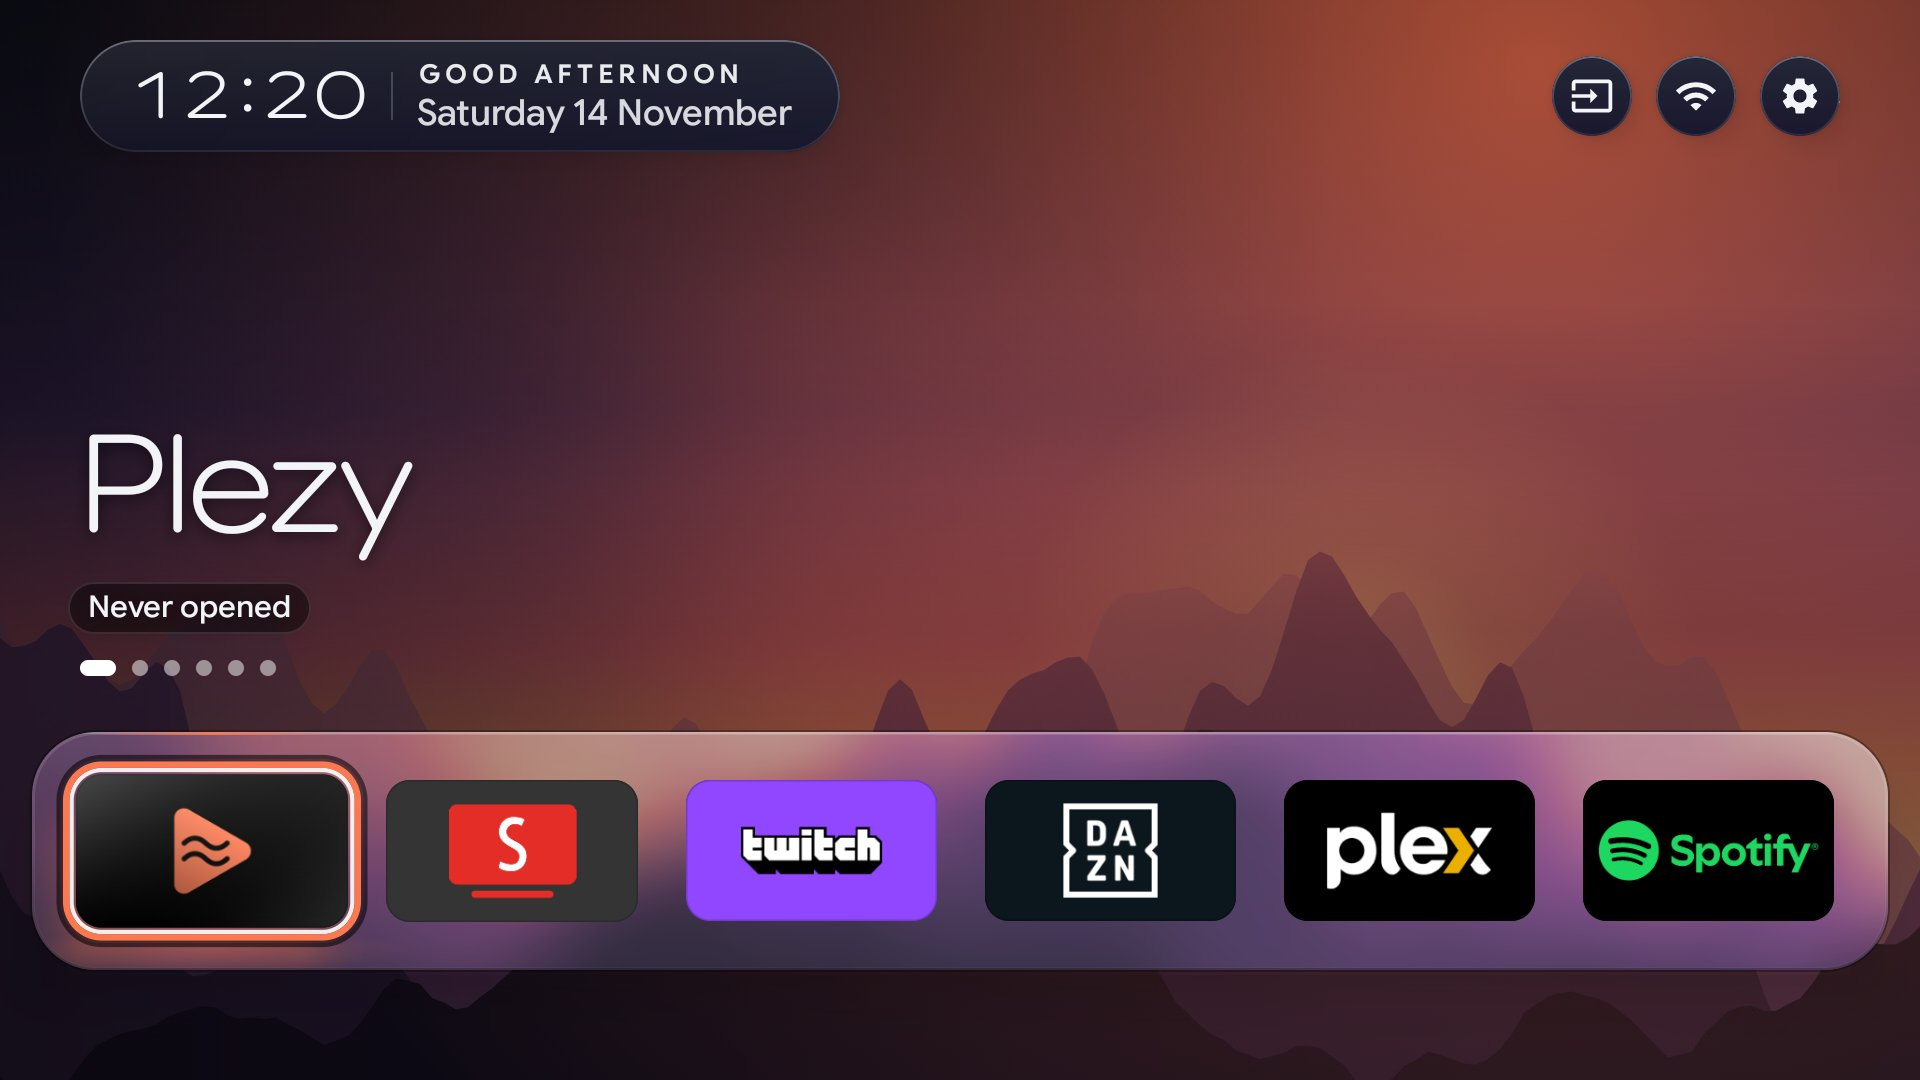
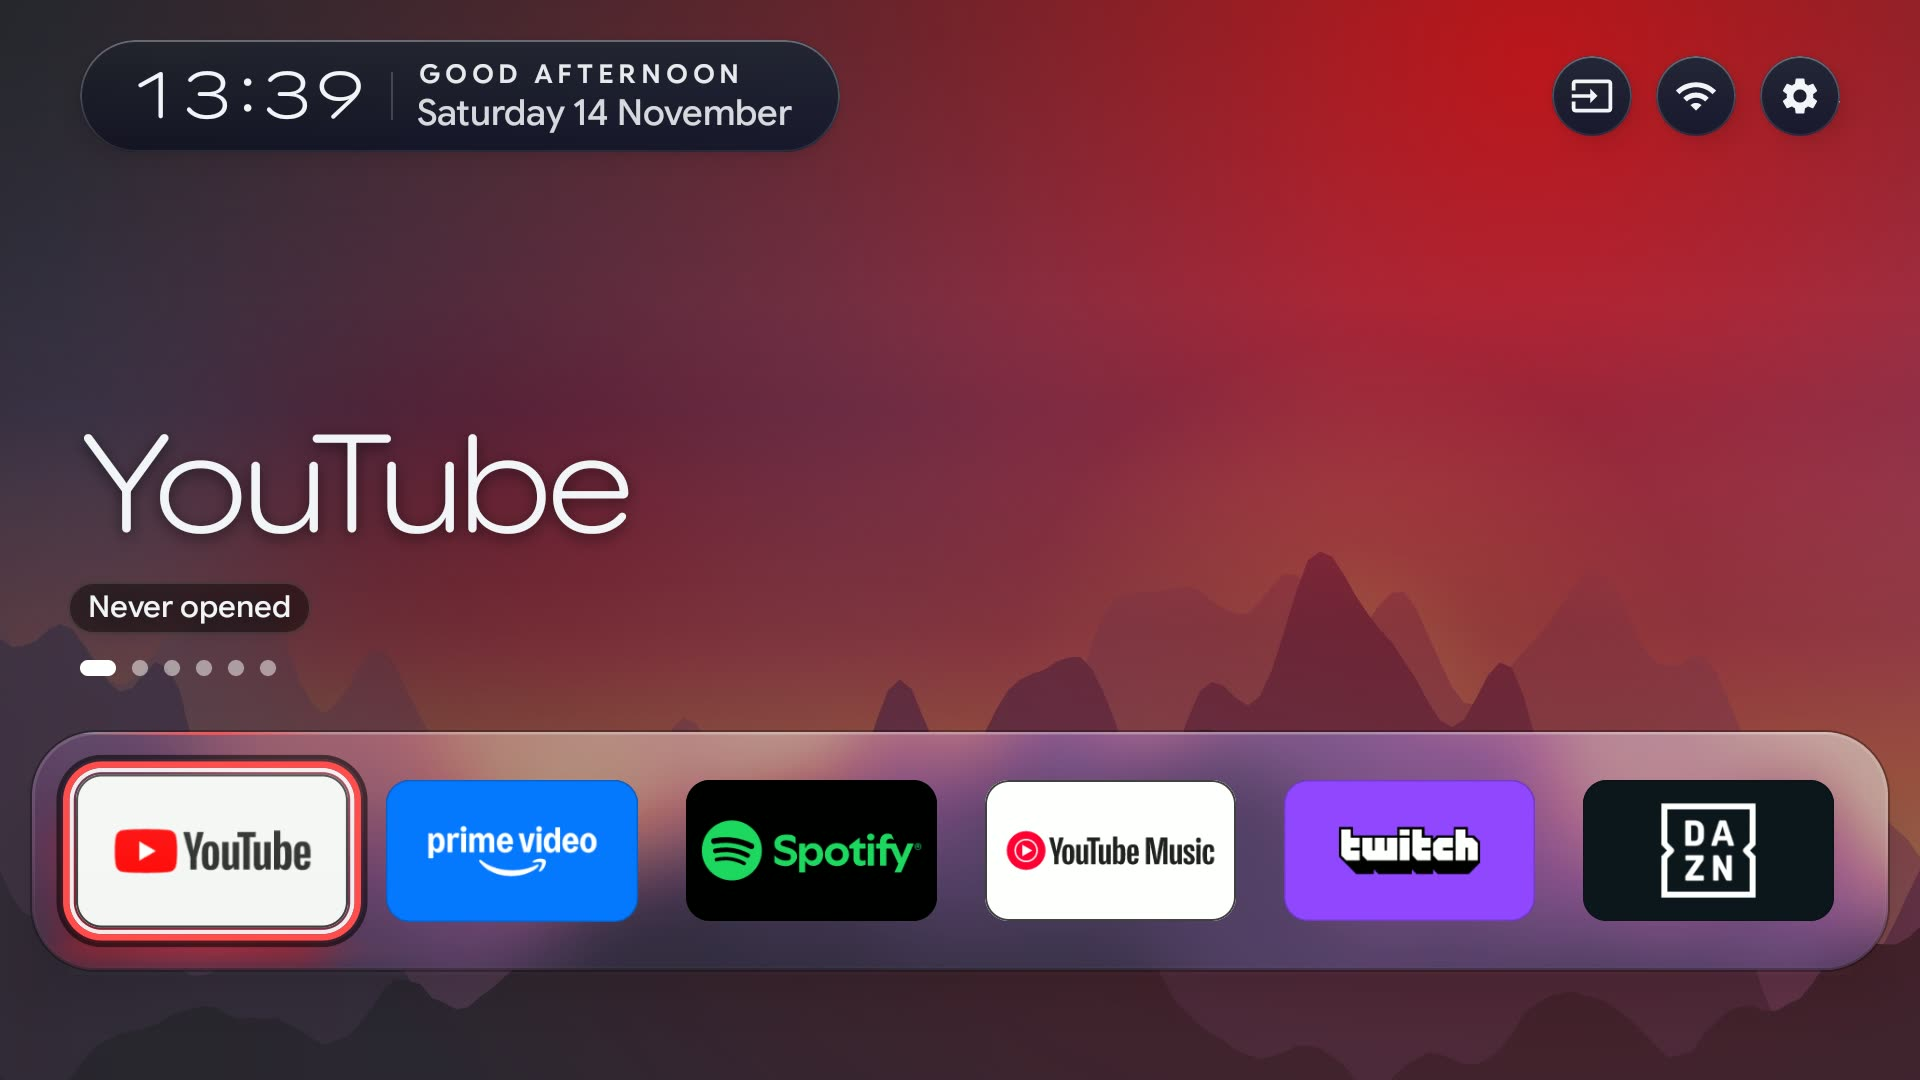
README: screenshots show only apps any TV has
Plezy, Plex, SmartTube, Jellyfin and RTVE are hidden; the dock holds
YouTube, Prime Video, Spotify, YouTube Music, Twitch and DAZN. The grid
shot focuses Google Play Store, whose label is English. JPGs re-encoded
without metadata.

diff --git a/.github/README.md b/.github/README.md
@@ -51,7 +51,7 @@ These come from a Sony Bravia, with the launcher's English text.
 
 | Home | App library |
 |---|---|
-| ![Home at rest: the dock with the first tile focused and its name above the dock](screenshots/home.jpg) | ![The App library page with every installed app, one focused](screenshots/library.jpg) |
+| ![Home at rest: the dock with YouTube focused and its name above the dock](screenshots/home.jpg) | ![The app grid under the dock, with Google Play Store focused and its name above](screenshots/library.jpg) |
 
 | Tile menu | Launcher settings |
 |---|---|
